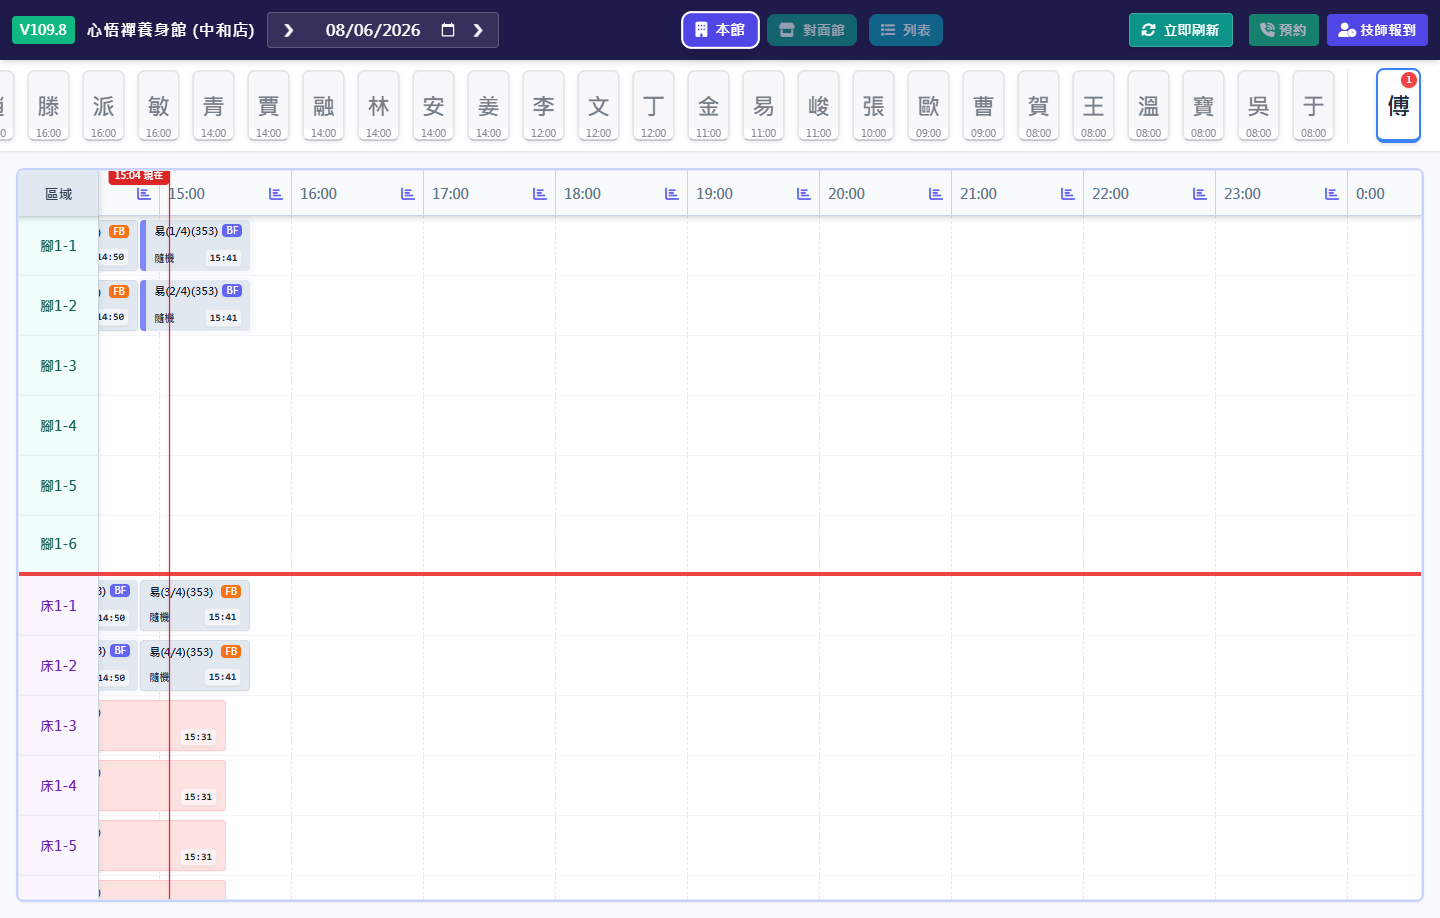
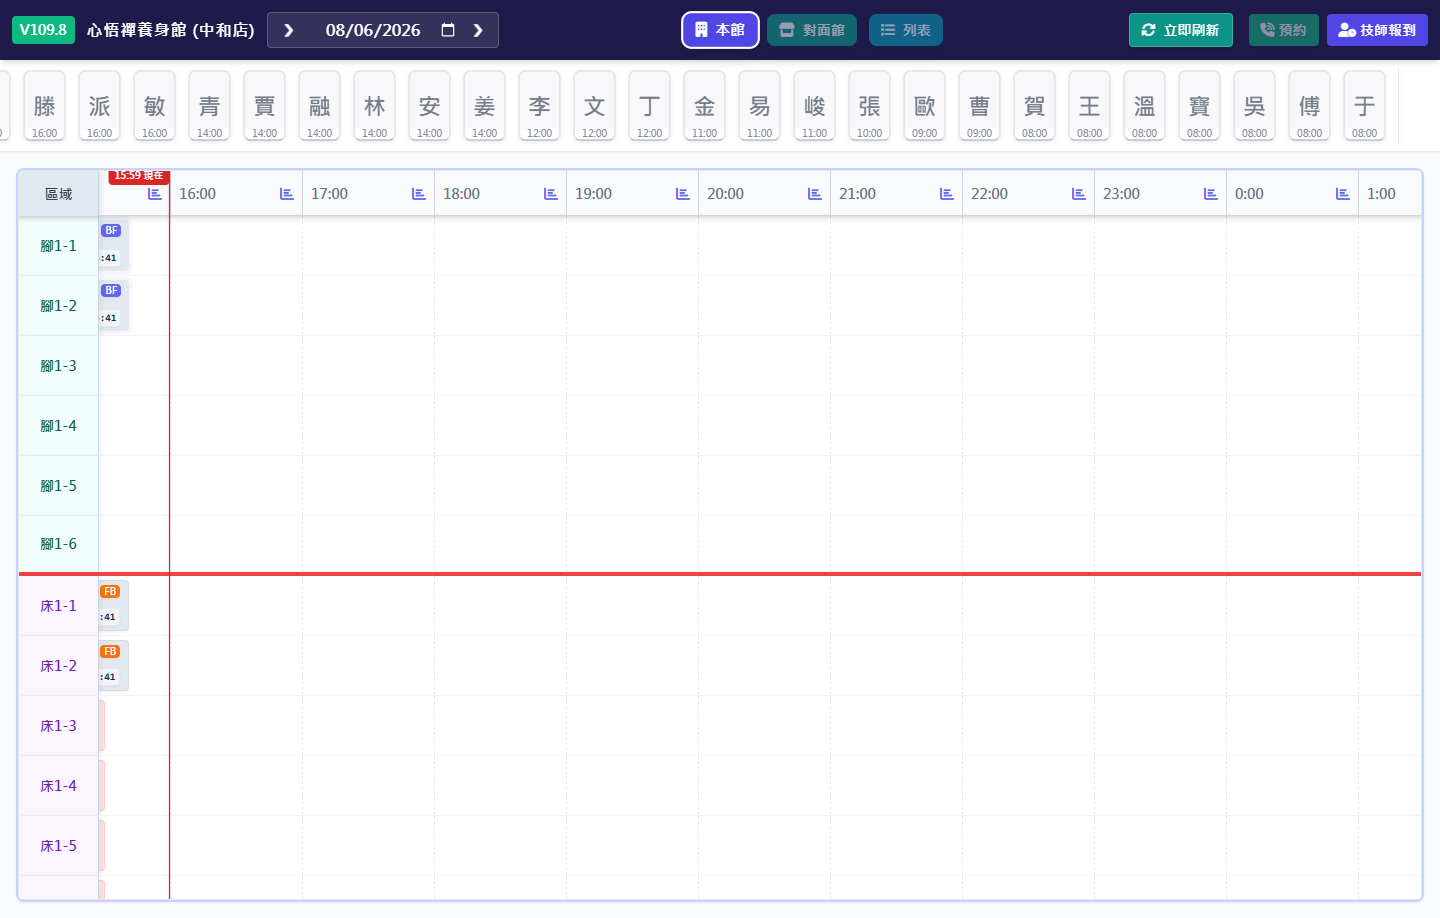
time

diff --git a/cyx_sheet_service.js b/cyx_sheet_service.js
@@ -2039,25 +2039,84 @@ async function updateBookingGroupAtomic(groupUpdates) {
             let timeVal = updatedData.gioDen || row[2];
             if (timeVal.length > 5) timeVal = timeVal.substring(0, 5);
 
-            if (updatedData.hoTen !== undefined) row[0] = updatedData.hoTen;
-            if (updatedData.ngayDen !== undefined) row[1] = formattedDate;
-            if (updatedData.gioDen !== undefined) row[2] = timeVal;
+            if (updatedData.ngayDen !== undefined) row[0] = formattedDate;
+            if (updatedData.gioDen !== undefined) row[1] = timeVal;
+            if (updatedData.hoTen !== undefined) row[2] = updatedData.hoTen;
             if (updatedData.sdt !== undefined) row[3] = updatedData.sdt;
-            if (updatedData.dichVu !== undefined) row[4] = updatedData.dichVu;
-            if (updatedData.trangThai !== undefined) row[5] = updatedData.trangThai;
-            if (updatedData.nhanVien !== undefined) row[6] = updatedData.nhanVien;
-            
-            if (updatedData.isYouTui !== undefined) row[25] = updatedData.isYouTui ? 'TRUE' : '';
-            if (updatedData.isGuaSha !== undefined) row[40] = updatedData.isGuaSha ? 'TRUE' : '';
-            if (updatedData.isHuaGuan !== undefined) row[41] = updatedData.isHuaGuan ? 'TRUE' : '';
-            if (updatedData.isBaGuan !== undefined) row[42] = updatedData.isBaGuan ? 'TRUE' : '';
-            
-            if (updatedData.phase1_duration !== undefined) row[34] = updatedData.phase1_duration;
-            if (updatedData.phase2_duration !== undefined) row[35] = updatedData.phase2_duration;
-            if (updatedData.phase1_res_idx !== undefined) row[36] = updatedData.phase1_res_idx;
-            if (updatedData.phase2_res_idx !== undefined) row[37] = updatedData.phase2_res_idx;
-            if (updatedData.flow !== undefined) row[38] = updatedData.flow;
-            if (updatedData.transition_time !== undefined) row[39] = updatedData.transition_time;
+
+            let isYouTui = updatedData.isYouTui !== undefined ? updatedData.isYouTui : (row[5] === "Yes");
+            row[5] = isYouTui ? "Yes" : "";
+
+            if (updatedData.isGuaSha !== undefined) row[6] = updatedData.isGuaSha ? "Yes" : "";
+            if (updatedData.isHuaGuan !== undefined) row[7] = updatedData.isHuaGuan ? "Yes" : "";
+            if (updatedData.isBaGuan !== undefined) row[8] = updatedData.isBaGuan ? "Yes" : "";
+            if (updatedData.trangThai !== undefined) row[9] = updatedData.trangThai;
+            if (updatedData.nhanVien !== undefined) row[10] = updatedData.nhanVien;
+
+            let sCode = null;
+            if (updatedData.dichVu !== undefined) {
+                let svcName = updatedData.dichVu;
+                if (isYouTui && !svcName.includes("油推")) {
+                    svcName += getOilSuffixText();
+                }
+                row[4] = svcName;
+
+                sCode = updatedData.serviceCode;
+                if (!sCode) {
+                    const found = Object.values(STATE.SERVICES).find(s => s.name === updatedData.dichVu);
+                    if (found) sCode = found.code;
+                }
+                row[24] = sCode;
+
+                if (sCode && STATE.SERVICES[sCode]) {
+                    const svcDef = STATE.SERVICES[sCode];
+                    let newPrice = svcDef.price || 0;
+                    if (isYouTui) {
+                        if (sCode === 'B1') newPrice += 100;
+                        else newPrice += 200;
+                    }
+                    row[18] = newPrice;
+                    if (svcDef.category === 'COMBO') {
+                        row[34] = 'COMBO';
+                    } else if (svcDef.category === 'FOOT') {
+                        row[34] = 'CHAIR';
+                    } else if (svcDef.category === 'BODY') {
+                        row[34] = 'BED';
+                    }
+                }
+            } else {
+                sCode = row[24];
+            }
+
+            if (updatedData.phase1_duration !== undefined) row[28] = updatedData.phase1_duration;
+            if (updatedData.phase2_duration !== undefined) row[30] = updatedData.phase2_duration;
+            if (updatedData.phase1_res_idx !== undefined) row[32] = updatedData.phase1_res_idx;
+            if (updatedData.phase2_res_idx !== undefined) row[33] = updatedData.phase2_res_idx;
+            if (updatedData.flow !== undefined) row[25] = updatedData.flow;
+
+            let parsedColB = row[1];
+            if (parsedColB) {
+                if (parsedColB.includes(' ')) parsedColB = parsedColB.split(' ')[1];
+                if (parsedColB.length > 5) parsedColB = parsedColB.substring(0, 5);
+                row[27] = parsedColB;
+                
+                const startMins = typeof ResourceCore !== 'undefined' ? ResourceCore.getMinsFromTimeStr(parsedColB) : -1;
+                if (startMins !== -1) {
+                    let p1Dur = parseInt(row[28]) || 0;
+                    let p2Dur = parseInt(row[30]) || 0;
+                    let finalFlow = row[25] || "FB";
+                    const isCombo = (finalFlow === 'FB' || finalFlow === 'BF');
+                    const transitionBuffer = isCombo ? (typeof ResourceCore !== 'undefined' && ResourceCore.CONFIG ? ResourceCore.CONFIG.TRANSITION_BUFFER : 3) : 0;
+                    
+                    if (isCombo) {
+                        row[29] = typeof ResourceCore !== 'undefined' ? ResourceCore.getTimeStrFromMins(startMins + p1Dur + transitionBuffer) : "";
+                    } else {
+                        row[29] = "";
+                    }
+                    row[31] = typeof ResourceCore !== 'undefined' ? ResourceCore.getTimeStrFromMins(startMins + p1Dur + p2Dur + transitionBuffer) : "";
+                }
+            }
+
             if (updatedData.duration !== undefined) row[45] = updatedData.duration;
 
             dataToUpdate.push({
